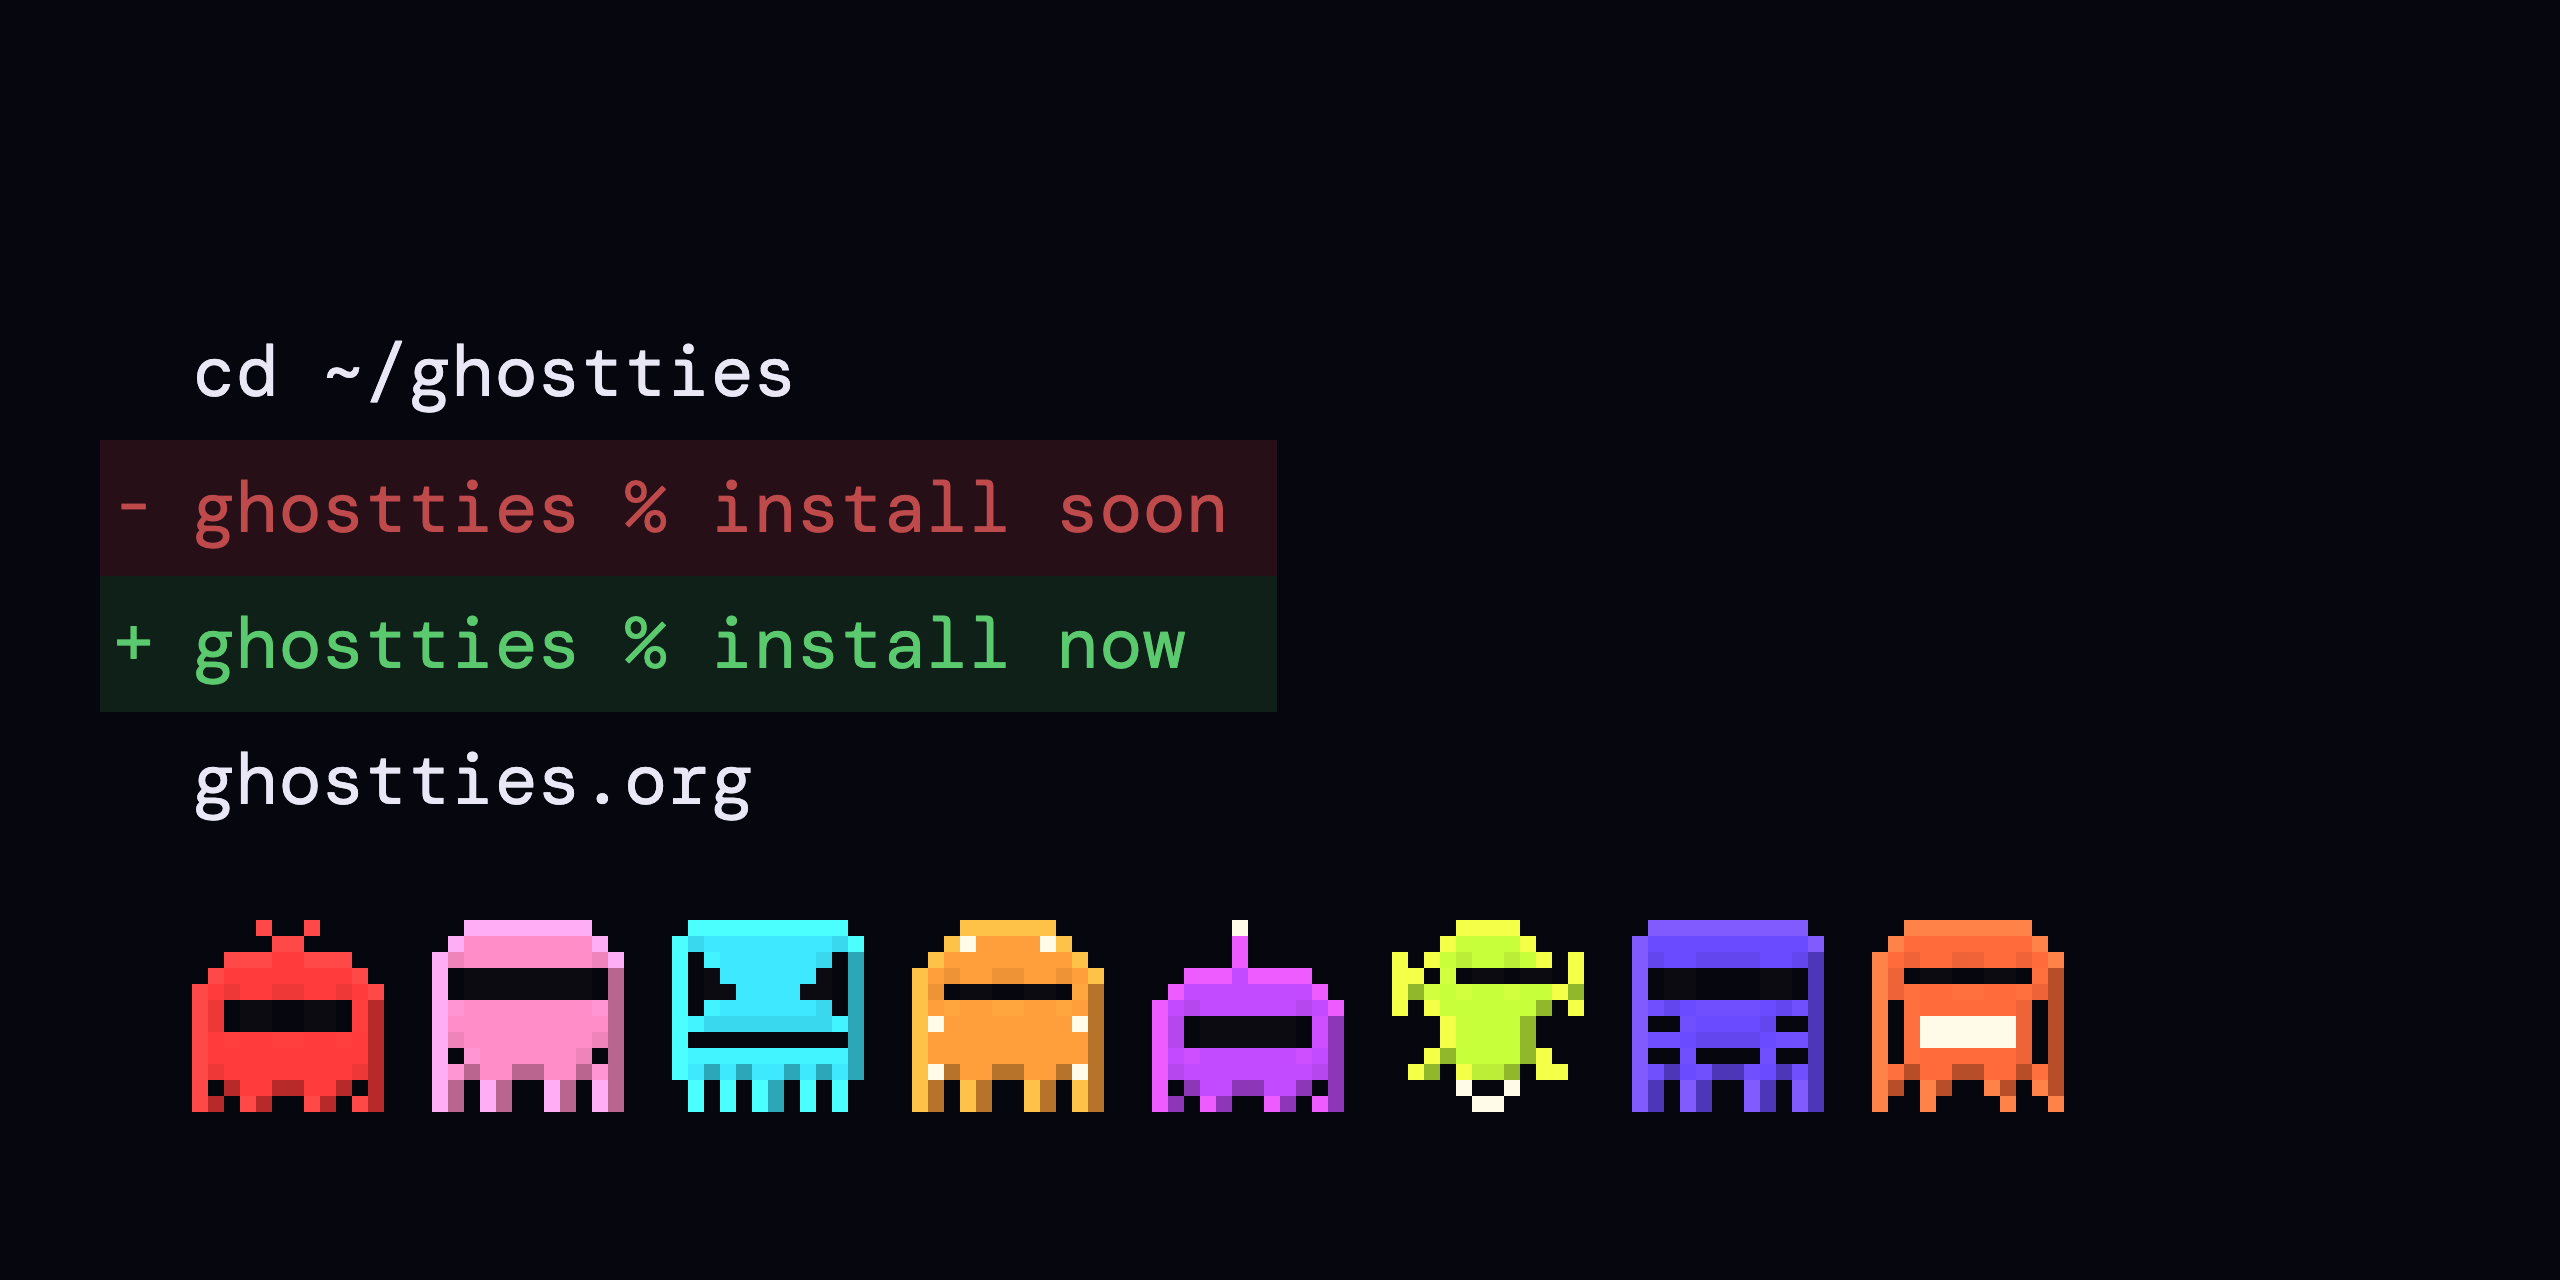
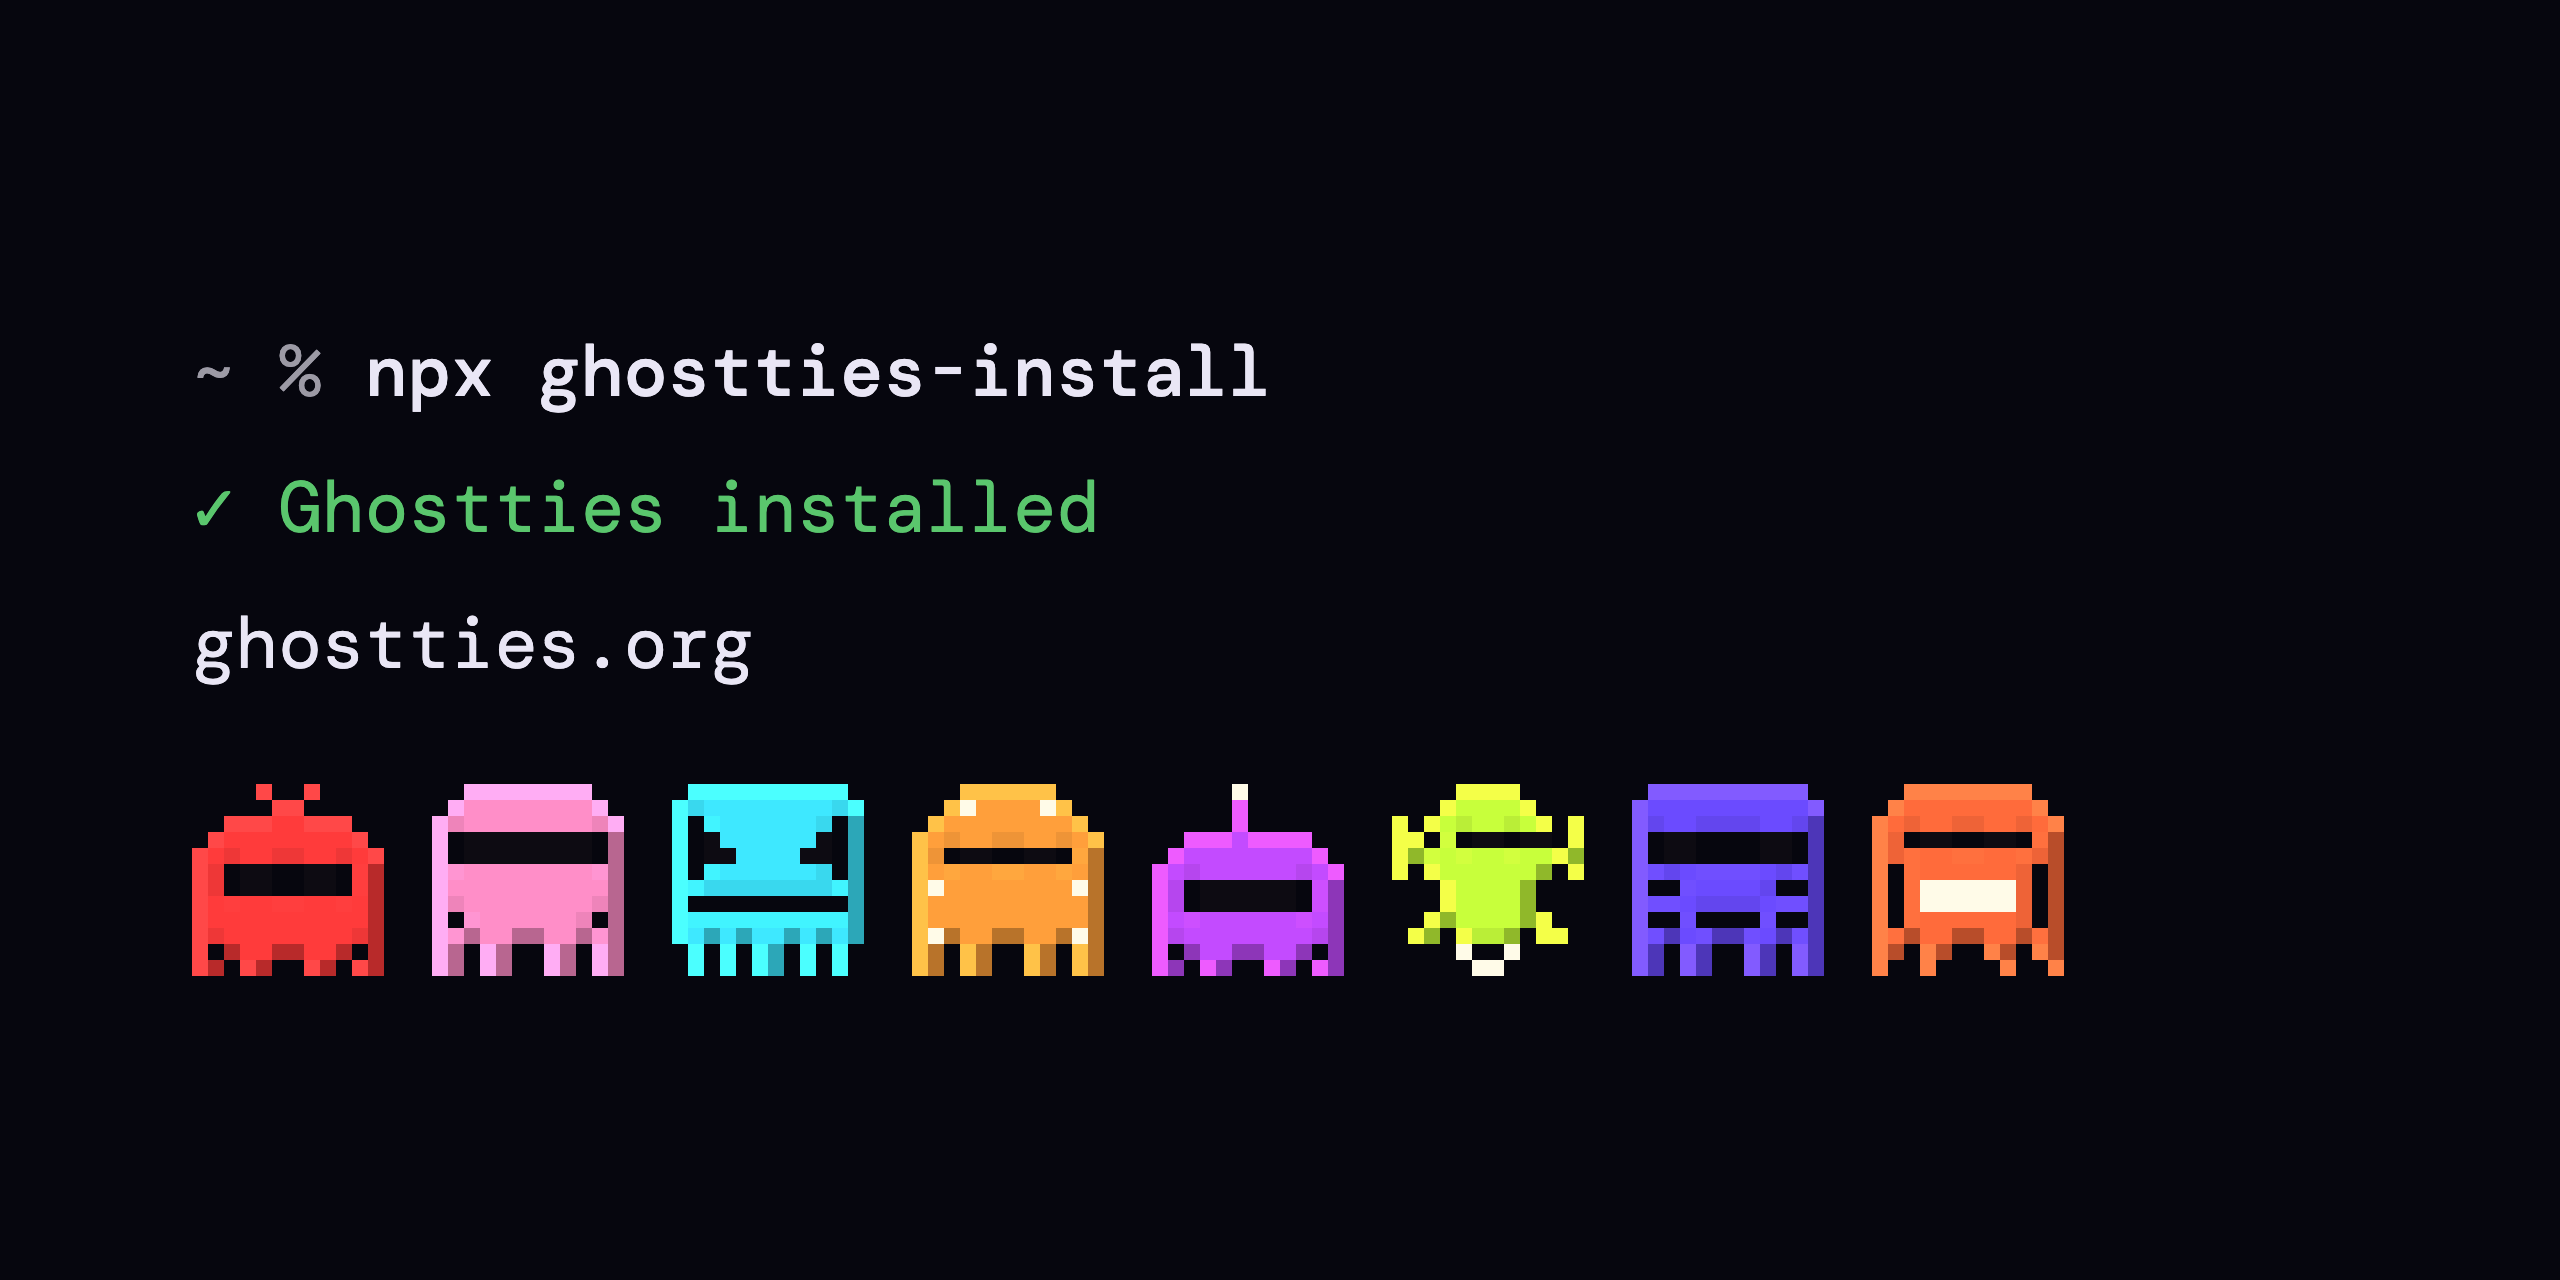
design(web): social card shows a real install, not install soon
Replaces the cd line and the install soon/now diff with the homepage's own
npx ghostties-install command and a green success line. No version number,
so the card does not go stale. Removes em dashes from the template.

Claude-Session: https://claude.ai/code/session_01BP24cNY7PWqsLGvzWXKQRY

Changed region(s): [[0.0625, 0.5938, 0.8125, 0.875], [0.0312, 0.3438, 0.5, 0.5625], [0.0625, 0.25, 0.5, 0.3125]]

diff --git a/scripts/social-card/card.html b/scripts/social-card/card.html
@@ -2,7 +2,7 @@
 <!--
   ghostties.org social card (og:image / twitter:image), 2560x1280.
   Rendered to web/assets/social-card.png by scripts/social-card/render.sh,
-  which serves the REPO ROOT — hence the /web/... paths below. Lives outside
+  which serves the REPO ROOT, hence the /web/... paths below. Lives outside
   web/ so it never deploys as a page.
 
   Ghosts are not drawn here. The page loads the live site's own
@@ -11,13 +11,16 @@
   row. Redraw a ghost in ghost-field.js and the card follows on re-render.
 
   Values (web/DESIGN.md): --bg, --ink, --font-mono from §8 (the v2/v3 token
-  set the live homepage uses); diff colours from §3 "Hero terminal".
+  set the live homepage uses); the success green is --diff-add-fg from §3
+  "Hero terminal". Command is the homepage's own (web/index.html). No version
+  number on purpose: it would go stale.
 -->
 <html lang="en">
 <head>
 <meta charset="utf-8">
 <title>ghostties social card</title>
 <link rel="preload" href="/web/assets/fonts/dmmono-400-latin.woff2" as="font" type="font/woff2" crossorigin>
+<link rel="preload" href="/web/assets/fonts/dmmono-500-latin.woff2" as="font" type="font/woff2" crossorigin>
 <style>
   @font-face {
     font-family: "DM Mono";
@@ -26,14 +29,19 @@
     font-display: block;
     src: url("/web/assets/fonts/dmmono-400-latin.woff2") format("woff2");
   }
+  @font-face {
+    font-family: "DM Mono";
+    font-style: normal;
+    font-weight: 500;
+    font-display: block;
+    src: url("/web/assets/fonts/dmmono-500-latin.woff2") format("woff2");
+  }
   :root {
     --bg: #06060e;
     --ink: #e9e6f5;
+    --ink-dim: rgba(233, 230, 245, 0.66);
     --font-mono: "DM Mono", monospace;
     --diff-add-fg: rgba(100, 220, 120, 0.9);
-    --diff-add-bg: rgba(80, 210, 100, 0.13);
-    --diff-del-fg: rgba(255, 100, 100, 0.7);
-    --diff-del-bg: rgba(255, 80, 80, 0.13);
   }
   html, body {
     margin: 0;
@@ -52,15 +60,12 @@
     line-height: 136px;
     color: var(--ink);
   }
-  /* Text column starts at 192px; the diff gutter (+/-) hangs left of it. */
+  /* Text column starts at 192px. Three lines + ghost row sit centred:
+     304px above and below. */
   .line { padding-left: 192px; white-space: pre; }
-  /* Both diff bars share one width (the longer line + 48px), starting 92px
-     left of the text column so the +/- sits in the gutter. */
-  .diffs { display: inline-block; margin-left: 100px; }
-  .diff { position: relative; padding: 0 48px 0 92px; white-space: pre; }
-  .diff .sign { position: absolute; left: 12px; }
-  .del { background: var(--diff-del-bg); color: var(--diff-del-fg); }
-  .add { background: var(--diff-add-bg); color: var(--diff-add-fg); }
+  .prompt { color: var(--ink-dim); }
+  .cmd { font-weight: 500; }
+  .ok { color: var(--diff-add-fg); }
   .ghosts {
     display: flex;
     gap: 48px;
@@ -69,7 +74,7 @@
   }
   .ghosts svg {
     display: block;
-    width: 192px;   /* 12 cells x 16px — integer scale, no seams */
+    width: 192px;   /* 12 cells x 16px: integer scale, no seams */
     height: 192px;
     overflow: visible;
     shape-rendering: crispEdges;
@@ -84,11 +89,8 @@
 </head>
 <body>
   <div class="card">
-    <div class="line">cd ~/ghostties</div>
-    <div class="diffs">
-      <div class="diff del"><span class="sign">-</span>ghostties % install soon</div>
-      <div class="diff add"><span class="sign">+</span>ghostties % install now</div>
-    </div>
+    <div class="line"><span class="prompt">~ % </span><span class="cmd">npx ghostties-install</span></div>
+    <div class="line ok">✓ Ghostties installed</div>
     <div class="line">ghostties.org</div>
     <div class="ghosts" id="ghosts"></div>
   </div>
@@ -102,7 +104,7 @@
       var svgs = document.querySelectorAll("#gx-field .gx-ghost svg");
       if (svgs.length < 8) {
         row.innerHTML = '<div class="missing">GHOSTS MISSING: ' + svgs.length +
-          " rendered — ghost-field.js did not take its reduced-motion path</div>";
+          " rendered: ghost-field.js did not take its reduced-motion path</div>";
         document.documentElement.dataset.ready = "missing";
         return;
       }
